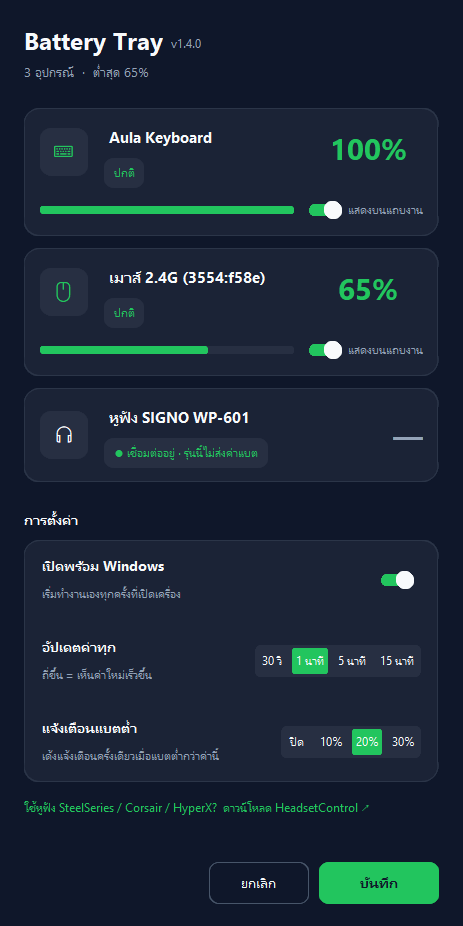
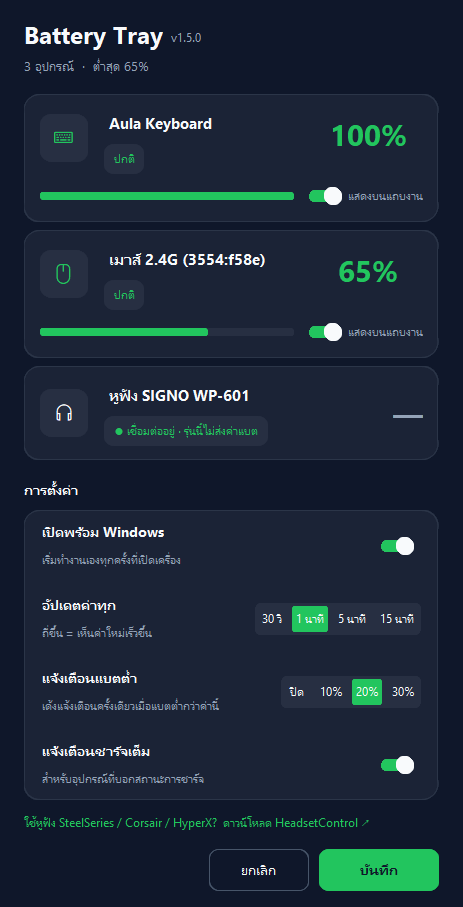
Battery time estimate, self-install, full-charge alert (v1.5.0)
- Keep 7 days of per-device battery history and estimate time left from the
  discharge rate since the last charge (needs >=2h of data and >=3% drop)
- Running the exe from anywhere else copies it to %LOCALAPPDATA%\BatteryTray,
  points the startup shortcut there and relaunches; skips if already running
- Notify once per charge when a device reaches 100% (toggle in settings)
- Tighter settings layout sized to the work area so Save stays on screen

diff --git a/battery_monitor.py b/battery_monitor.py
@@ -38,7 +38,7 @@ DATA_DIR = Path(os.environ.get("APPDATA", APP_DIR)) / "BatteryTray"
 CACHE = DATA_DIR / "battery_cache.json"
 NO_WINDOW = subprocess.CREATE_NO_WINDOW if os.name == "nt" else 0
 
-VERSION = "1.4.1"
+VERSION = "1.5.0"
 RELEASES_PAGE = "https://github.com/ChampWinai/Battery/releases/latest"
 RELEASES_API = "https://api.github.com/repos/ChampWinai/Battery/releases/latest"
 UPDATE_EVERY_S = 24 * 3600
@@ -481,16 +481,86 @@ def make_icon(res, stale=False):
     return img
 
 
-def tooltip(name, res):
+def tooltip(name, res, eta=None):
     if not isinstance(res, (tuple, list)):
         return f"{name}: หลับอยู่ (ขยับ/กดปุ่มแล้วรีเฟรช)"
-    return f"{name}: {res[0]}%" + (" กำลังชาร์จ" if res[1] else "")
+    return f"{name}: {res[0]}%" + (" กำลังชาร์จ" if res[1] else "") + (f" · เหลือ {eta}" if eta else "")
+
+
+# ---------- ประวัติแบต + ประมาณเวลาที่เหลือ ----------
+
+HISTORY_DAYS = 7
+MIN_SPAN_H, MIN_DROP = 2, 3  # ต้องมีข้อมูลอย่างน้อย 2 ชม. และแบตลด ≥3% ถึงจะประมาณ (กันตัวเลขมั่ว)
+
+
+def record_history(hist, ts, pct, charging):
+    """เก็บ [ts, pct, charging] เมื่อค่าเปลี่ยน หรือทุก 30 นาที — เก็บย้อนหลัง 7 วัน"""
+    if not hist or hist[-1][1] != pct or hist[-1][2] != bool(charging) or ts - hist[-1][0] >= 1800:
+        hist.append([ts, pct, bool(charging)])
+    cutoff = ts - HISTORY_DAYS * 86400
+    while hist and hist[0][0] < cutoff:
+        hist.pop(0)
+
+
+def estimate_remaining_h(hist, now):
+    """ชั่วโมงที่เหลือจากอัตราลดของช่วงคายประจุล่าสุด (ตั้งแต่ชาร์จครั้งก่อน) หรือ None ถ้าข้อมูลยังไม่พอ"""
+    seg = []
+    for ts, pct, chg in reversed(hist):
+        if chg or (seg and pct < seg[-1][1]):  # เจอช่วงชาร์จ / แบตเพิ่มขึ้น = จบช่วงคายประจุ
+            break
+        seg.append((ts, pct))
+    if len(seg) < 2:
+        return None
+    (t1, p1), (t0, p0) = seg[0], seg[-1]
+    span_h, drop = (t1 - t0) / 3600, p0 - p1
+    if span_h < MIN_SPAN_H or drop < MIN_DROP:
+        return None
+    return max(0.0, p1 / (drop / span_h) - (now - t1) / 3600)
+
+
+def fmt_remaining(h):
+    if h is None:
+        return None
+    if h < 1:
+        return "ไม่ถึง 1 ชม."
+    return f"~{round(h)} ชม." if h < 48 else f"~{round(h / 24)} วัน"
+
+
+# ---------- ติดตั้งไว้ที่ถาวร ----------
+
+INSTALL_DIR = Path(os.environ.get("LOCALAPPDATA", str(DATA_DIR))) / "BatteryTray"
+
+
+def needs_install():
+    return FROZEN and Path(sys.executable).resolve().parent != INSTALL_DIR.resolve()
+
+
+def is_running(exe):
+    """exe ที่กำลังรันเปิดเพื่อเขียนไม่ได้บน Windows"""
+    try:
+        with open(exe, "r+b"):
+            return False
+    except PermissionError:
+        return True
+    except OSError:
+        return False
+
+
+def install_copy(src, dest):
+    """คัดลอก src ไปที่ dest (แทนตัวเดิมถ้ามี โดยคืนตัวเดิมถ้าล้มเหลว)"""
+    dest.parent.mkdir(parents=True, exist_ok=True)
+    if not dest.exists():
+        shutil.copy2(src, dest)
+        return
+    new = dest.with_name(dest.name + ".new")
+    shutil.copy2(src, new)
+    swap_exe(dest, new)
 
 
 # ---------- ตั้งค่า ----------
 
 STARTUP_LNK = Path(os.environ.get("APPDATA", "")) / r"Microsoft\Windows\Start Menu\Programs\Startup\Battery Tray.lnk"
-DEFAULTS = {"interval": 60, "alert": 20, "hidden": [], "names": {}}
+DEFAULTS = {"interval": 60, "alert": 20, "hidden": [], "names": {}, "notify_full": True}
 
 
 def launch_cmd():
@@ -509,20 +579,32 @@ def relaunch_env():
     return env
 
 
-def set_startup(on):
+def set_startup(on, exe=None):
     if not on:
         STARTUP_LNK.unlink(missing_ok=True)
         return
-    target, *args = launch_cmd()
+    target, *args = [str(exe)] if exe else launch_cmd()
     ps = ("$s=(New-Object -ComObject WScript.Shell).CreateShortcut($env:LNK);"
           "$s.TargetPath=$env:TARGET; $s.Arguments=$env:ARGS;"
           "$s.WorkingDirectory=$env:DIR; $s.Description='Battery Tray'; $s.Save()")
-    env = dict(os.environ, LNK=str(STARTUP_LNK), TARGET=target, DIR=str(APP_DIR),
+    env = dict(os.environ, LNK=str(STARTUP_LNK), TARGET=target, DIR=str(Path(exe).parent if exe else APP_DIR),
                ARGS=" ".join(f'"{a}"' for a in args))
     subprocess.run(["powershell", "-NoProfile", "-Command", ps], env=env, creationflags=NO_WINDOW)
 
 
-def settings_window(devices, settings, last, on_save):
+def work_area_height(root):
+    """ความสูงจอที่ใช้ได้จริง (หัก taskbar) — fallback เป็นความสูงจอ"""
+    try:
+        import ctypes
+        r = (ctypes.c_long * 4)()
+        if ctypes.windll.user32.SystemParametersInfoW(0x30, 0, r, 0):  # SPI_GETWORKAREA
+            return r[3] - r[1]
+    except Exception:
+        pass
+    return root.winfo_screenheight()
+
+
+def settings_window(devices, settings, last, on_save, history=None):
     """หน้าต่างตั้งค่า (customtkinter ใน thread ของตัวเอง)
     ดีไซน์: ui-ux-pro-max — Dark slate + status green, สถานะมีข้อความกำกับ (ไม่ใช้สีอย่างเดียว)"""
     import webbrowser
@@ -563,7 +645,7 @@ def settings_window(devices, settings, last, on_save):
     root.resizable(False, False)
     root.attributes("-topmost", True)
     body = ctk.CTkFrame(root, fg_color=C["bg"])
-    body.pack(padx=24, pady=22, fill="both")
+    body.pack(padx=24, pady=16, fill="both")
 
     # ---- ส่วนหัว: ชื่อแอป + สรุปภาพรวม ----
     shown = [d for d in devices if d["key"] != "none"]
@@ -573,7 +655,7 @@ def settings_window(devices, settings, last, on_save):
     ctk.CTkLabel(head, text="Battery Tray", font=(TH, 24, "bold"), text_color=C["text"]).pack(side="left")
     ctk.CTkLabel(head, text=f"v{VERSION}", font=(TH, 12), text_color=C["sub"]).pack(side="left", padx=8, pady=(8, 0))
     summary = f"{len(shown)} อุปกรณ์" + (f"  ·  ต่ำสุด {min(known)}%" if known else "")
-    ctk.CTkLabel(body, text=summary, font=(TH, 13), text_color=C["sub"]).pack(anchor="w", pady=(0, 16))
+    ctk.CTkLabel(body, text=summary, font=(TH, 13), text_color=C["sub"]).pack(anchor="w", pady=(0, 10))
 
     # ---- การ์ดอุปกรณ์ ----
     rows = []
@@ -585,7 +667,7 @@ def settings_window(devices, settings, last, on_save):
         ctk.CTkLabel(empty, text="เสียบดองเกิล เปิดอุปกรณ์ แล้วคลิกขวาที่ไอคอน → ค้นหาอุปกรณ์ใหม่",
                      font=(TH, 13), text_color=C["sub"]).pack(anchor="w", padx=18, pady=(0, 16))
     # ponytail: จำนวนการ์ดที่แสดงพร้อมกันประมาณจากความสูงจอ (ส่วนอื่นของหน้าต่าง ~600px, การ์ด ~128px)
-    MAX_CARDS = max(1, (root.winfo_screenheight() - 600) // 128)
+    MAX_CARDS = max(1, (work_area_height(root) - 600) // 128)
     devlist = (ctk.CTkScrollableFrame(body, height=MAX_CARDS * 128, fg_color=C["bg"])
                if len(shown) > MAX_CARDS else ctk.CTkFrame(body, fg_color=C["bg"]))
     devlist.pack(fill="x")
@@ -593,7 +675,7 @@ def settings_window(devices, settings, last, on_save):
         if dev.get("no_battery"):
             connected = dev["connected"]()
             card = ctk.CTkFrame(devlist, fg_color=C["card"], corner_radius=16, border_width=1, border_color=C["line"])
-            card.pack(fill="x", pady=6)
+            card.pack(fill="x", pady=4)
             card.grid_columnconfigure(1, weight=1)
             badge = ctk.CTkFrame(card, width=48, height=48, corner_radius=12, fg_color=C["muted"])
             badge.grid(row=0, column=0, rowspan=2, padx=(16, 12), pady=16)
@@ -617,10 +699,13 @@ def settings_window(devices, settings, last, on_save):
         stale = bool(dev.get("stale"))
         pct = old[0][0] if old else None
         status, scolor = status_of(old, stale)
+        eta = fmt_remaining(estimate_remaining_h((history or {}).get(dev["key"], []), time.time()))
+        if eta and old and not stale and not old[0][1]:
+            status += f" · เหลือ {eta}"
         color = hexc(level_color(pct)) if pct is not None and not stale else C["sub"]
 
         card = ctk.CTkFrame(devlist, fg_color=C["card"], corner_radius=16, border_width=1, border_color=C["line"])
-        card.pack(fill="x", pady=6)
+        card.pack(fill="x", pady=4)
         card.grid_columnconfigure(1, weight=1)
 
         badge = ctk.CTkFrame(card, width=48, height=48, corner_radius=12, fg_color=C["muted"])
@@ -652,14 +737,14 @@ def settings_window(devices, settings, last, on_save):
         rows.append((dev, show, name))
 
     # ---- ตั้งค่าทั่วไป ----
-    ctk.CTkLabel(body, text="การตั้งค่า", font=(TH, 14, "bold"), text_color=C["text"]).pack(anchor="w", pady=(18, 6))
+    ctk.CTkLabel(body, text="การตั้งค่า", font=(TH, 14, "bold"), text_color=C["text"]).pack(anchor="w", pady=(12, 6))
     gen = ctk.CTkFrame(body, fg_color=C["card"], corner_radius=16, border_width=1, border_color=C["line"])
     gen.pack(fill="x")
     gen.grid_columnconfigure(0, weight=1)
 
     def row_label(r, title, sub):
         f = ctk.CTkFrame(gen, fg_color="transparent")
-        f.grid(row=r, column=0, sticky="w", padx=18, pady=12)
+        f.grid(row=r, column=0, sticky="w", padx=18, pady=8)
         ctk.CTkLabel(f, text=title, font=(TH, 14, "bold"), text_color=C["text"]).pack(anchor="w")
         ctk.CTkLabel(f, text=sub, font=(TH, 12), text_color=C["sub"]).pack(anchor="w")
 
@@ -686,33 +771,39 @@ def settings_window(devices, settings, last, on_save):
     divider(3)
     row_label(4, "แจ้งเตือนแบตต่ำ", "เด้งแจ้งเตือนครั้งเดียวเมื่อแบตต่ำกว่าค่านี้")
     alert = segmented(4, alerts, settings["alert"])
+    divider(5)
+    row_label(6, "แจ้งเตือนชาร์จเต็ม", "สำหรับอุปกรณ์ที่บอกสถานะการชาร์จ")
+    notify_full = ctk.BooleanVar(value=settings.get("notify_full", True))
+    ctk.CTkSwitch(gen, text="", variable=notify_full, width=40, progress_color=C["accent"], button_color=C["text"],
+                  fg_color=C["border"]).grid(row=6, column=1, padx=18, sticky="e")
 
     if not headsetcontrol_exe():
         hint = ctk.CTkLabel(body, text="ใช้หูฟัง SteelSeries / Corsair / HyperX?  ดาวน์โหลด HeadsetControl ↗",
                             font=(TH, 12), text_color=C["accent"], cursor="hand2")
-        hint.pack(anchor="w", pady=(12, 0))
+        hint.pack(anchor="w", pady=(8, 0))
         hint.bind("<Button-1>", lambda _: webbrowser.open(HEADSETCONTROL_URL))
 
-    msg = ctk.CTkLabel(body, text="", font=(TH, 12), text_color=C["danger"])
-    msg.pack(anchor="w", pady=(4, 0))
+    msg = ctk.CTkLabel(body, text="", font=(TH, 12), text_color=C["danger"])  # pack เมื่อมี error เท่านั้น
 
     def save(*_):
         switches = [show for _, show, _ in rows if show is not None]
         if switches and not any(v.get() for v in switches):
             msg.configure(text="⚠ ต้องแสดงอย่างน้อย 1 อุปกรณ์ ไม่งั้นจะกลับมาเปิดหน้านี้ไม่ได้")
+            msg.pack(anchor="w", pady=(4, 0), before=bar)
             return
         settings["hidden"] = [d["key"] for d, show, _ in rows if show is not None and not show.get()]
         settings["names"] = {d["key"]: n.get().strip() for d, _, n in rows
                              if n.get().strip() and n.get().strip() != d["name"]}
         settings["interval"] = intervals[interval.get()]
         settings["alert"] = alerts[alert.get()]
+        settings["notify_full"] = notify_full.get()
         if startup.get() != STARTUP_LNK.exists():
             set_startup(startup.get())
         root.destroy()
         on_save()
 
     bar = ctk.CTkFrame(body, fg_color="transparent")
-    bar.pack(fill="x", pady=(8, 0))
+    bar.pack(fill="x", pady=(12, 0))
     ctk.CTkButton(bar, text="บันทึก", font=(TH, 14, "bold"), height=42, width=120, corner_radius=10,
                   fg_color=C["accent"], hover_color=C["accent_hover"], text_color=C["on_accent"],
                   cursor="hand2", command=save).pack(side="right")
@@ -725,14 +816,35 @@ def settings_window(devices, settings, last, on_save):
     def center():
         root.update_idletasks()
         w, h = root.winfo_reqwidth(), root.winfo_reqheight()
-        root.geometry(f"+{max(0, (root.winfo_screenwidth() - w) // 2)}+{max(0, (root.winfo_screenheight() - h) // 2 - 30)}")
+        root.geometry(f"+{max(0, (root.winfo_screenwidth() - w) // 2)}+{max(0, (work_area_height(root) - h) // 2)}")
     root.after(10, center)
     root.mainloop()
 
 
 # ---------- แอป ----------
 
+def self_install():
+    """เปิดจากที่อื่น (เช่น Downloads) → คัดลอกไป INSTALL_DIR, ตั้งเปิดพร้อม Windows, เปิดตัวนั้นแทน
+    คืน True ถ้าตัวนี้ควรปิด (ส่งต่อให้ตัวที่ติดตั้งแล้ว)"""
+    dest = INSTALL_DIR / EXE_NAME
+    if is_running(dest):
+        return True  # มีตัวที่ติดตั้งแล้วรันอยู่ — ไม่เปิดซ้ำ
+    try:
+        install_copy(Path(sys.executable), dest)
+        set_startup(True, exe=dest)
+        subprocess.Popen([str(dest), "--installed-from", sys.executable], cwd=dest.parent, env=relaunch_env())
+        return True
+    except Exception:
+        log_error("self-install")
+        return False  # ใช้งานต่อจากที่เดิม
+
+
 def app():
+    if needs_install():
+        cleanup_old_exe()  # อัปเดตจาก v1.4.x ที่ Downloads ทิ้ง .old ไว้ — ลบก่อนย้ายไปที่ถาวร
+        if self_install():
+            return
+    installed_from = sys.argv[sys.argv.index("--installed-from") + 1] if "--installed-from" in sys.argv else None
     threading.Thread(target=cleanup_old_exe, daemon=True).start()
     cache = load_cache()
     first_run = "settings" not in cache
@@ -744,7 +856,8 @@ def app():
         {"key": "none", "kind": None, "name": "ไม่พบอุปกรณ์ที่รองรับ", "read": lambda: None}]
     save_cache(cache)
     stop, wake, lock, settings_open = threading.Event(), threading.Event(), threading.Lock(), threading.Lock()
-    alerted = set()
+    alerted, full_notified = set(), set()
+    history = cache.setdefault("history", {})
     icons = []
 
     def label(dev):
@@ -762,8 +875,20 @@ def app():
                 name = label(dev)
                 if res:
                     dev["stale"] = False
+                    prev = last.get(dev["key"])
                     last[dev["key"]] = [list(res), time.strftime("%d/%m %H:%M")]
-                    icon.icon, icon.title = make_icon(res), tooltip(name, res)
+                    hist = history.setdefault(dev["key"], [])
+                    record_history(hist, time.time(), res[0], res[1])
+                    eta = None if res[1] else fmt_remaining(estimate_remaining_h(hist, time.time()))
+                    icon.icon, icon.title = make_icon(res), tooltip(name, res, eta)
+                    was_charging = bool(prev and prev[0][1])
+                    full = res[0] >= 100 and (res[1] or was_charging)
+                    if full and dev["key"] not in full_notified:
+                        if settings.get("notify_full", True):
+                            icon.notify(f"{name} ชาร์จเต็มแล้ว — ถอดสายได้เลย", "ชาร์จเต็ม")
+                        full_notified.add(dev["key"])
+                    elif not res[1] and res[0] < 100:
+                        full_notified.discard(dev["key"])
                     low = bool(settings["alert"]) and res[0] <= settings["alert"] and not res[1]
                     if low and dev["key"] not in alerted:
                         icon.notify(f"{name} เหลือ {res[0]}% — ควรชาร์จ", "แบตใกล้หมด")
@@ -785,7 +910,7 @@ def app():
 
         def run():
             try:
-                settings_window(all_devices, settings, last, on_save=wake.set)
+                settings_window(all_devices, settings, last, on_save=wake.set, history=history)
             finally:
                 settings_open.release()
         threading.Thread(target=run, daemon=True).start()
@@ -869,6 +994,7 @@ def app():
         icon.run_detached()
 
     def loop():
+        nonlocal installed_from
         show_first = first_run
         while not stop.is_set():
             refresh()
@@ -876,6 +1002,11 @@ def app():
             if show_first:
                 show_first = False
                 open_settings()
+            if installed_from:
+                icons[0].notify(f"ติดตั้งไว้ที่ {INSTALL_DIR} และตั้งให้เปิดพร้อม Windows แล้ว — "
+                                f"ลบไฟล์เดิม ({Path(installed_from).name} ใน {Path(installed_from).parent.name}) ได้เลย",
+                                "ติดตั้งเรียบร้อย")
+                installed_from = None
             wake.wait(settings["interval"])
             wake.clear()
 
@@ -886,6 +1017,43 @@ def app():
 def test():
     assert is_newer("v1.2.0", "1.1.0") and is_newer("v1.10.0", "1.9.0")
     assert not is_newer("v1.1.0", "1.1.0") and not is_newer("v1.0.0", "1.1.0") and not is_newer("beta", "1.1.0")
+
+    # ประมาณเวลาที่เหลือ: ข้อมูลน้อย/ช่วงชาร์จ → None
+    H = 3600
+    hist = []
+    for i, p in enumerate([80, 78, 76, 74, 72, 70]):  # ลด 2% ทุก 24 นาที = 5%/ชม. รวม 2 ชม.
+        record_history(hist, 1000 + i * 1440, p, False)
+    assert round(estimate_remaining_h(hist, 1000 + 5 * 1440), 1) == 14.0  # 70% / 5%/ชม.
+    assert round(estimate_remaining_h(hist, 1000 + 5 * 1440 + 4 * H), 1) == 10.0  # ผ่านไปอีก 4 ชม.
+    assert estimate_remaining_h(hist[:3], 1000 + 2 * 1440) is None       # ยังไม่ถึง 2 ชม.
+    hist2 = [[0, 90, False], [2 * H, 80, False], [3 * H, 60, True], [3 * H + 60, 85, False]]
+    assert estimate_remaining_h(hist2, 3 * H + 60) is None               # เพิ่งชาร์จ เริ่มนับใหม่
+    hist3 = [[0, 50, False], [H, 40, False], [2 * H, 70, False], [5 * H, 64, False]]
+    assert round(estimate_remaining_h(hist3, 5 * H)) == 32               # ใช้เฉพาะช่วงหลังแบตเพิ่ม: 2%/ชม.
+    assert fmt_remaining(0.5) == "ไม่ถึง 1 ชม." and fmt_remaining(7.4) == "~7 ชม." and fmt_remaining(72) == "~3 วัน"
+    old_hist = []
+    record_history(old_hist, 0, 50, False)
+    record_history(old_hist, 8 * 86400, 49, False)
+    assert len(old_hist) == 1                                            # เก่ากว่า 7 วันถูกลบ
+    rh = []
+    record_history(rh, 0, 50, False)
+    record_history(rh, 60, 50, False)
+    assert len(rh) == 1                                                  # ค่าไม่เปลี่ยน ไม่เก็บซ้ำทุกนาที
+
+    # ติดตั้งไว้ที่ถาวร: คัดลอกใหม่ / แทนตัวเดิม; ไม่ติดตั้งตอนรันจากซอร์ส
+    import tempfile
+    assert not needs_install()
+    with tempfile.TemporaryDirectory() as td:
+        d = Path(td)
+        src = d / "Downloads" / EXE_NAME
+        src.parent.mkdir()
+        src.write_bytes(b"MZ v2")
+        dest = d / "Install" / EXE_NAME
+        install_copy(src, dest)
+        assert dest.read_bytes() == b"MZ v2"
+        src.write_bytes(b"MZ v3")
+        install_copy(src, dest)
+        assert dest.read_bytes() == b"MZ v3" and not is_running(dest)
 
     # อัปเดตตัวเอง: สลับไฟล์ได้, ถ้าวางไฟล์ใหม่ไม่ได้ต้องคืนตัวเดิม, ไฟล์โหลดไม่ครบต้องถูกปฏิเสธ
     import tempfile
